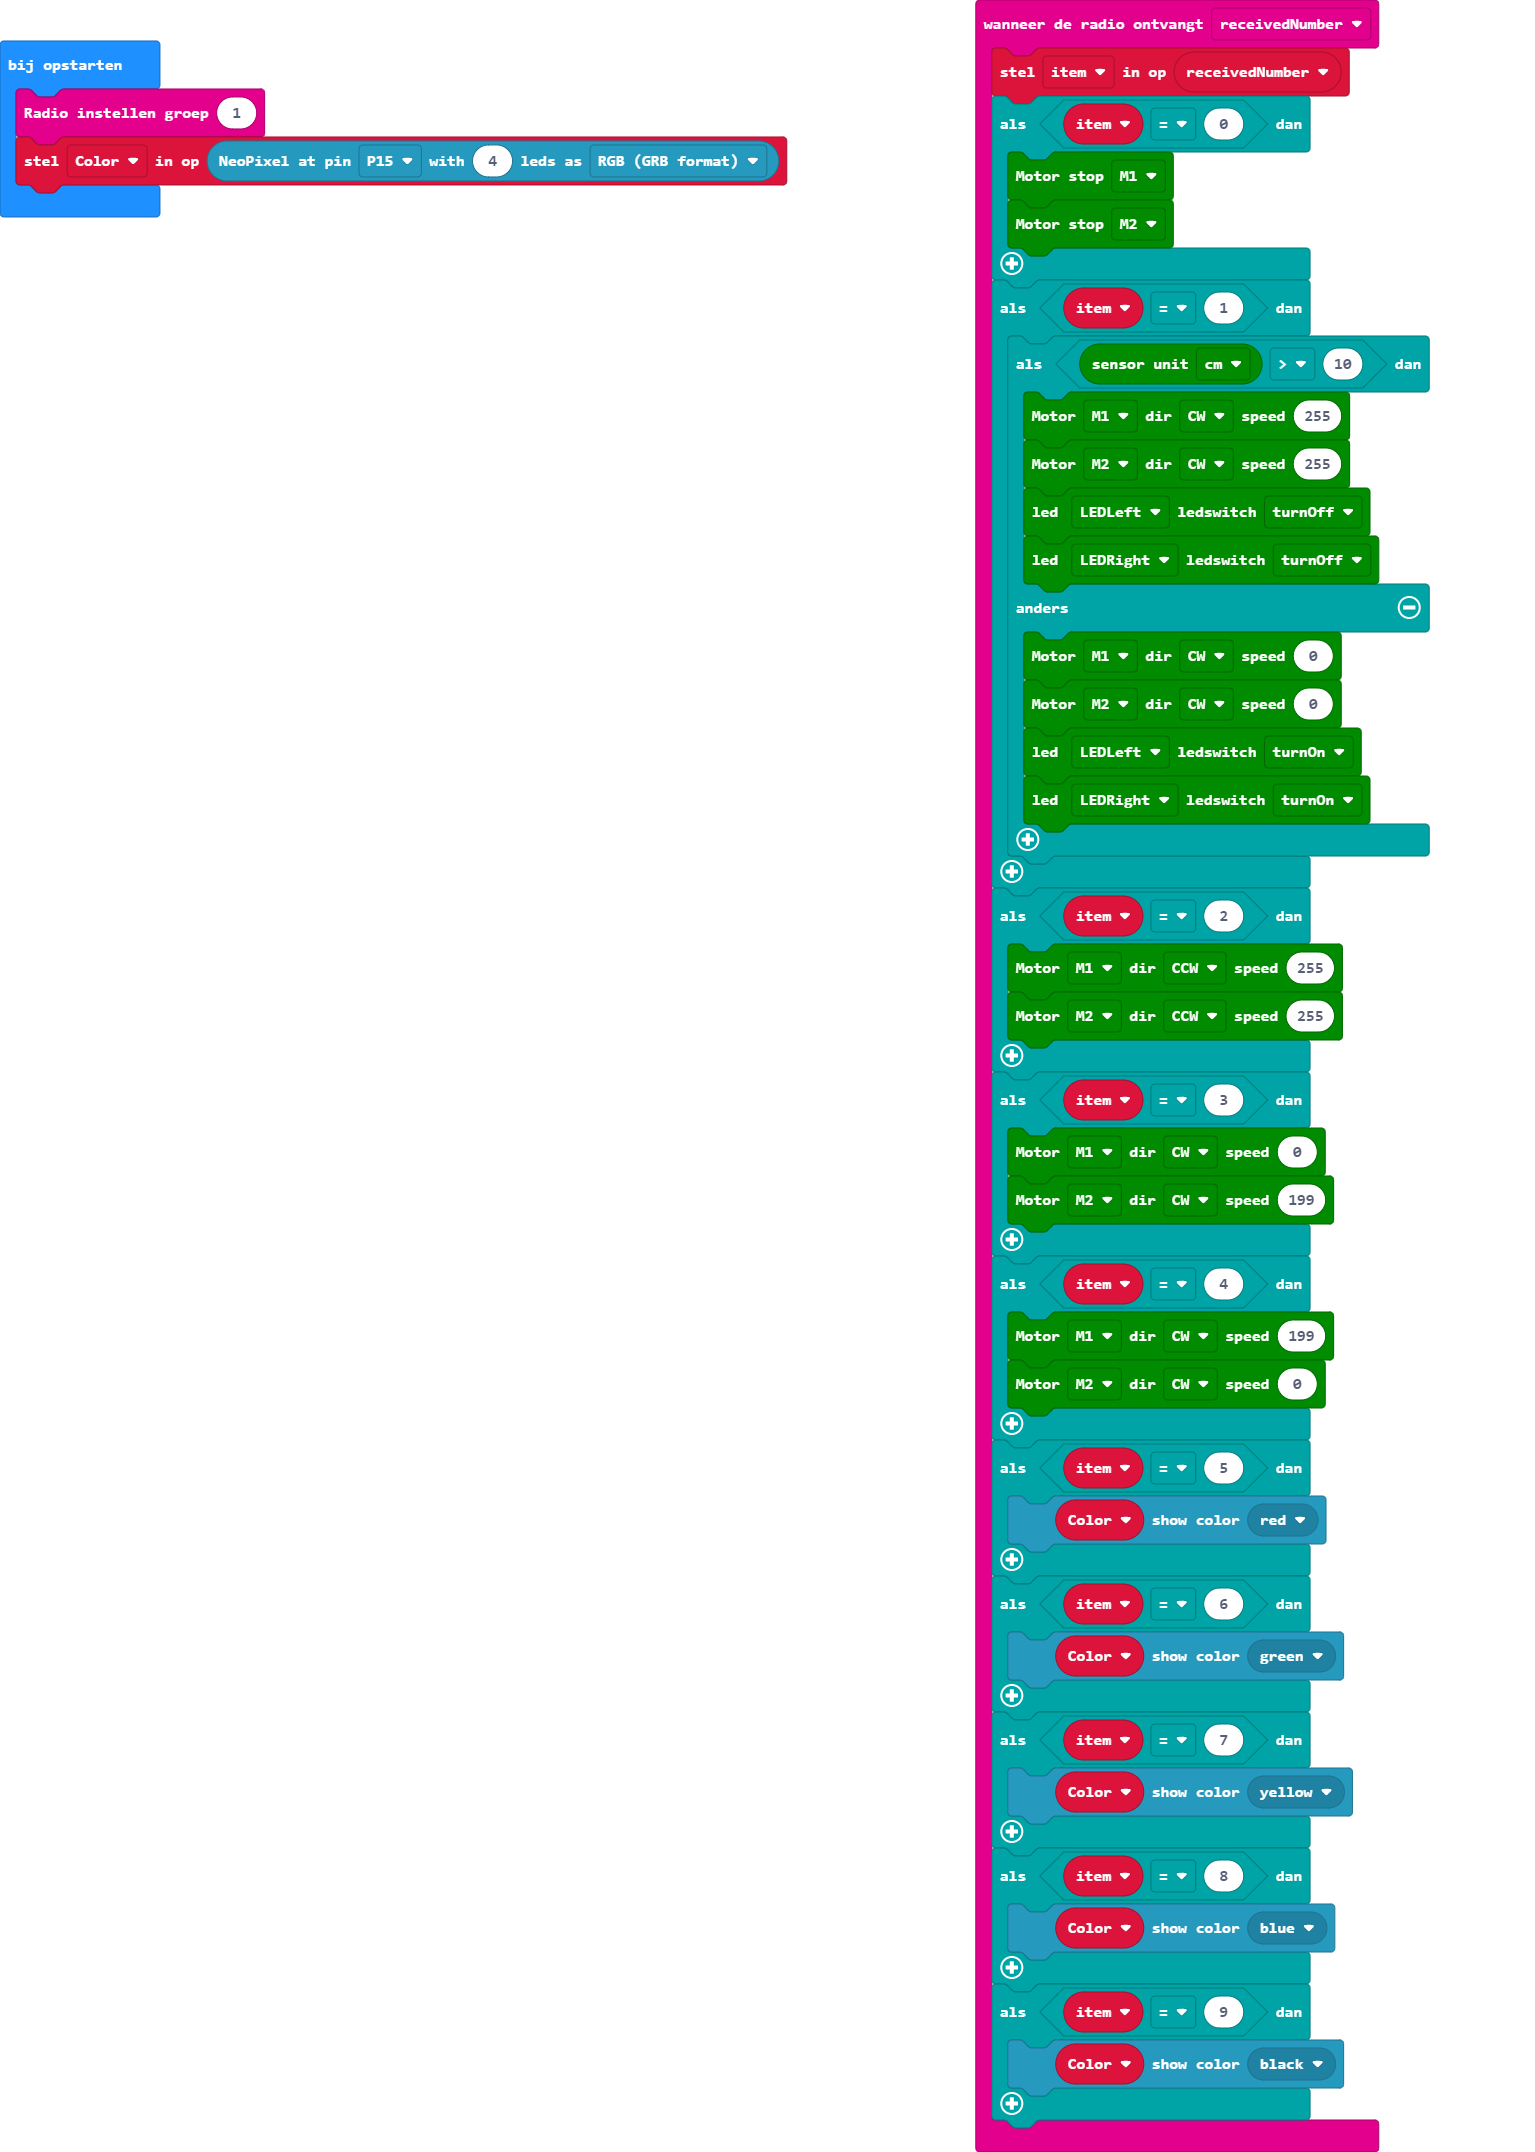
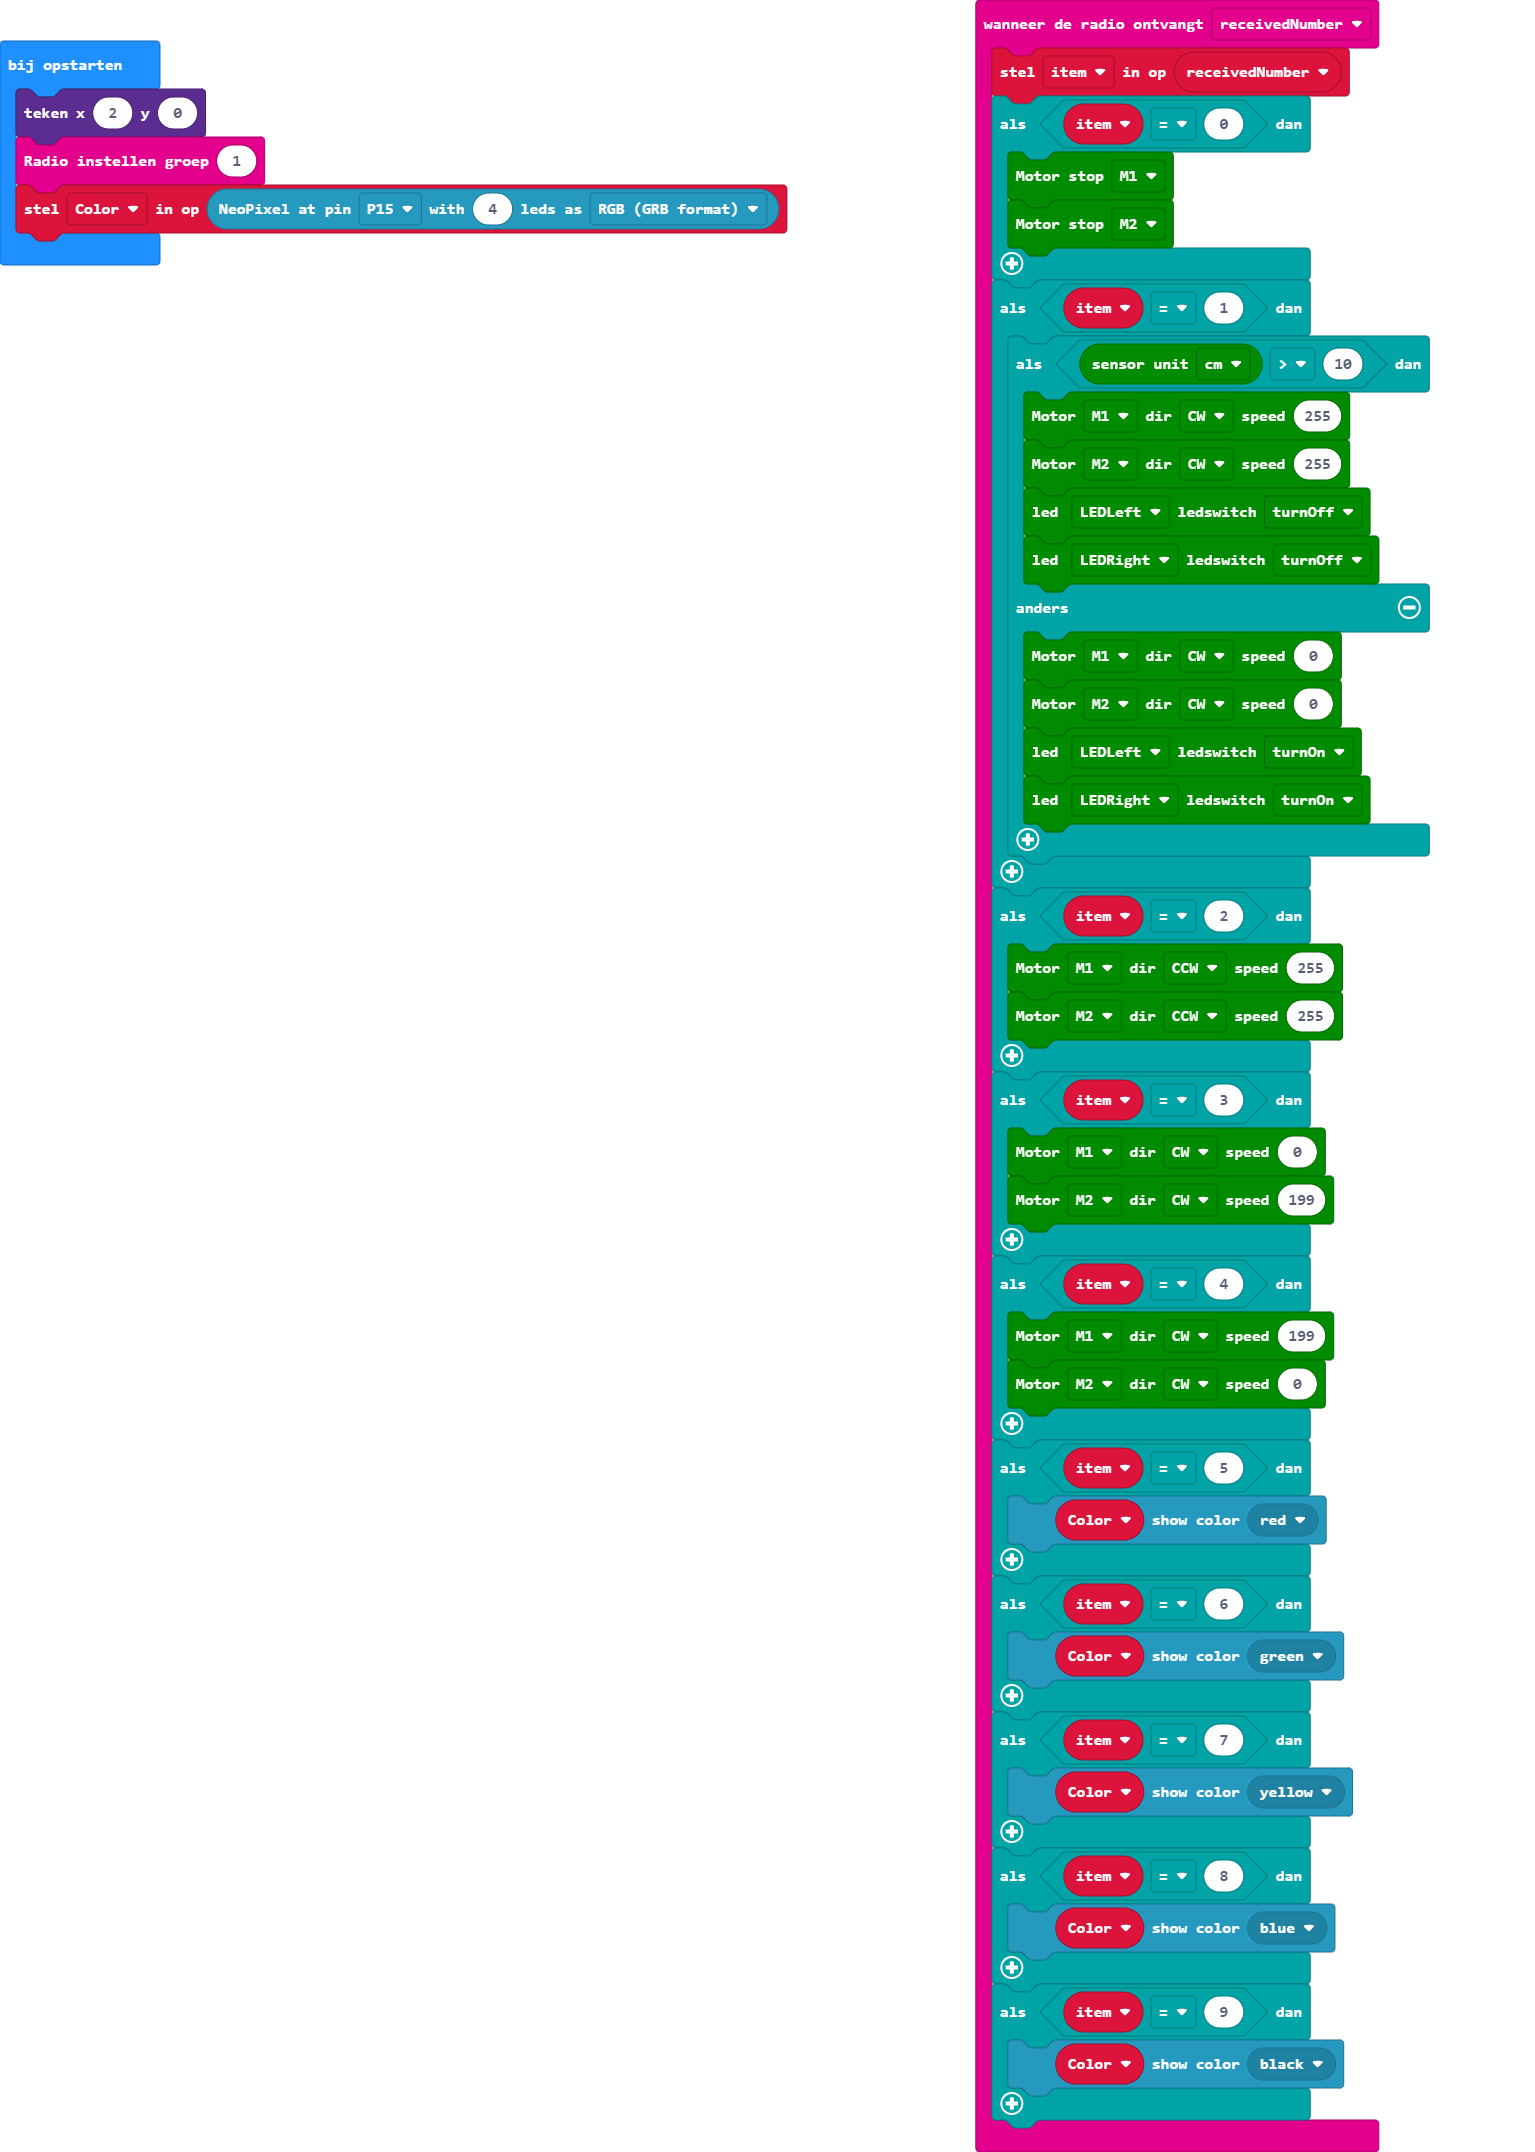
main.blocks, main.ts bijwerken

Changed region(s): [[0.0, 0.0311, 0.5205, 0.1245]]

diff --git a/main.ts b/main.ts
@@ -47,5 +47,6 @@ radio.onReceivedNumberDeprecated(function (receivedNumber) {
 })
 let item = 0
 let Color: neopixel.Strip = null
+led.plot(2, 0)
 radio.setGroup(1)
 Color = neopixel.create(DigitalPin.P15, 4, NeoPixelMode.RGB)
